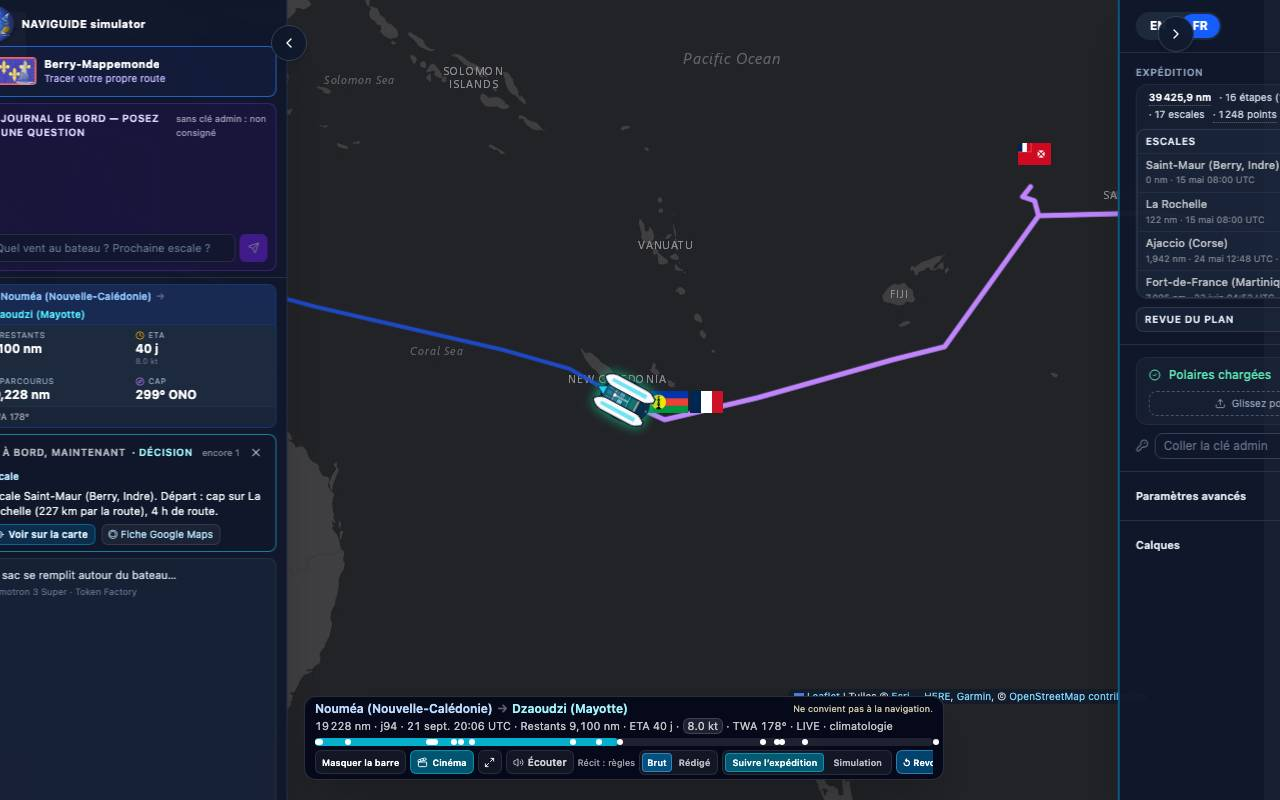
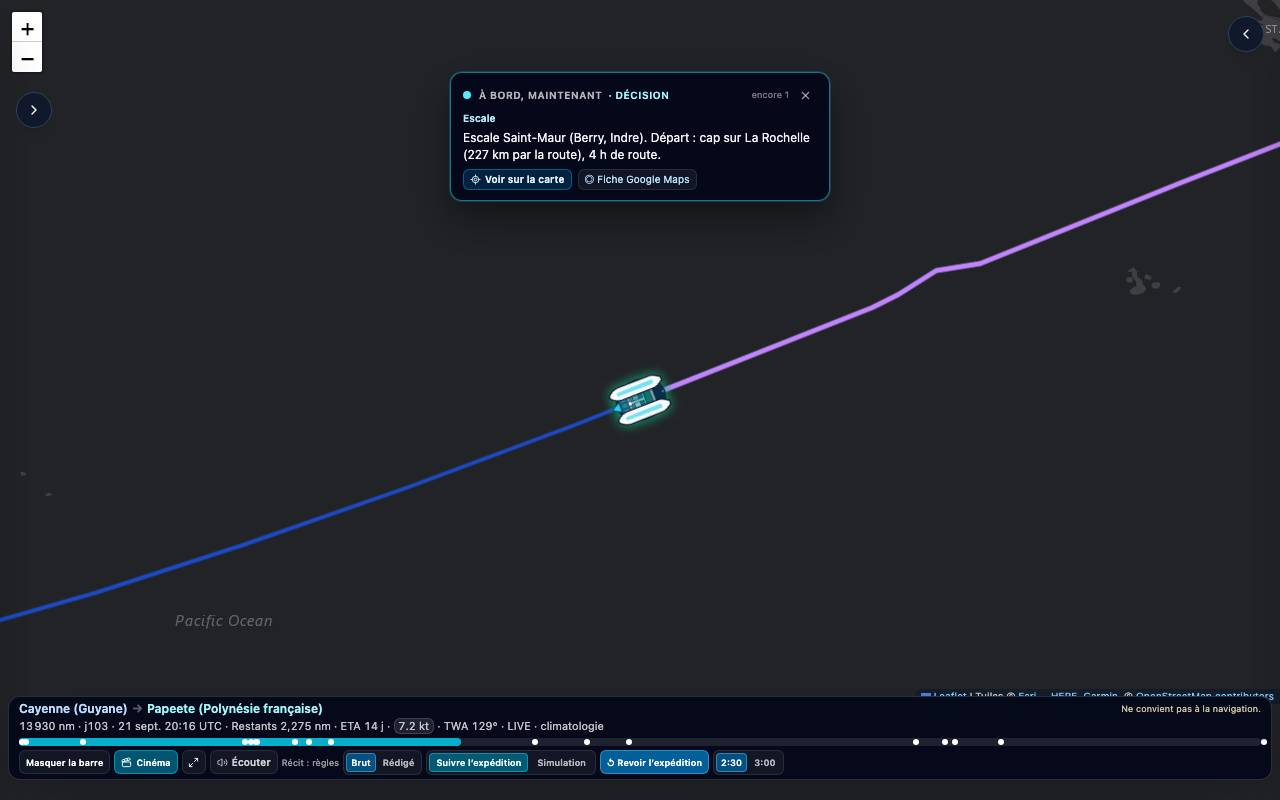
fix(simulator): calques joignables après Suivre sans API (lot R13)
La fumée cliquait ZEE alors que Suivre ferme les panneaux (cinéma) ; visibility:hidden les rendait injoignables. On les rouvre, et le décompte redites ignore le texte hors écran.

diff --git a/naviguide-simulator/e2e/smoke.spec.js b/naviguide-simulator/e2e/smoke.spec.js
@@ -24,8 +24,13 @@ test.describe("simulateur — fumée", () => {
     await expect(page.getByTestId("view-suivre")).toHaveAttribute("aria-checked", "true");
     await page.getByTestId("view-simulation").click();
     await expect(page.getByTestId("view-simulation")).toHaveAttribute("aria-checked", "true");
-    // Les calques sont repliés (revue du 19 sept.) : ouvrir la section, puis allumer ZEE.
+    // Suivre ouvre le cinéma : les deux panneaux se ferment. Les calques
+    // sont dans le panneau droit — on le rouvre avant ZEE (sans API).
     const drawer = page.getByTestId("layers-drawer");
+    if (!(await drawer.locator("summary").isVisible().catch(() => false))) {
+      await page.locator(".naviguide-sidebar-toggle--right").click();
+      await expect(drawer.locator("summary")).toBeVisible({ timeout: 10_000 });
+    }
     await drawer.locator("summary").scrollIntoViewIfNeeded();
     if (!(await drawer.evaluate((el) => el.open))) await drawer.locator("summary").click();
     const zee = drawer.getByRole("button", { name: "ZEE", exact: true });

diff --git a/naviguide-simulator/e2e/lots/r13-redites.spec.js b/naviguide-simulator/e2e/lots/r13-redites.spec.js
@@ -87,7 +87,17 @@ async function settle(page) {
 async function collectScreen(page) {
   await settle(page);
   return page.evaluate(() => {
+    // Panneaux fermés (cinéma / translate) : leur innerText reste dans le
+    // body. On les exclut le temps du décompte — la recette ne voit que l'écran.
+    const panels = [...document.querySelectorAll(".naviguide-sidebar-panel")];
+    const closed = panels.filter((el) => {
+      const r = el.getBoundingClientRect();
+      return r.right < 8 || r.left > window.innerWidth - 8;
+    });
+    const prev = closed.map((el) => el.style.display);
+    closed.forEach((el) => { el.style.display = "none"; });
     const raw = document.body.innerText || "";
+    closed.forEach((el, i) => { el.style.display = prev[i]; });
     const lines = raw.split(/\n/).map((s) => s.trim()).filter((s) => s.length >= 8);
     const counts = new Map();
     for (const line of lines) counts.set(line, (counts.get(line) || 0) + 1);

diff --git a/naviguide-simulator/src/components/Sidebar.jsx b/naviguide-simulator/src/components/Sidebar.jsx
@@ -303,7 +303,7 @@ export const Sidebar = memo(function Sidebar({
       <div
         className={`naviguide-sidebar-panel absolute top-0 left-0 h-full z-20 flex flex-col bg-slate-900/97
           shadow-2xl transition-transform duration-300 border-r border-slate-700/60
-          ${open ? "translate-x-0" : "-translate-x-full invisible"}`}
+          ${open ? "translate-x-0" : "-translate-x-full"}`}
         style={{ width: 320 }}
       >
         <div className="px-2.5 pt-1.5 pb-1.5 border-b border-slate-700/60 flex-shrink-0">

diff --git a/naviguide-simulator/src/components/ToolsSidebar.jsx b/naviguide-simulator/src/components/ToolsSidebar.jsx
@@ -331,7 +331,7 @@ export const ToolsSidebar = memo(function ToolsSidebar({
       <div
         className={`naviguide-sidebar-panel absolute top-0 right-0 h-full z-20 flex flex-col bg-slate-900/97
           border-l-2 border-sky-400/40 shadow-2xl transition-transform duration-300
-          ${open ? "translate-x-0" : "translate-x-full invisible"}`}
+          ${open ? "translate-x-0" : "translate-x-full"}`}
         style={{ width: 320 }}
       >
         <div className="flex-1 overflow-y-auto sidebar-scroll">
